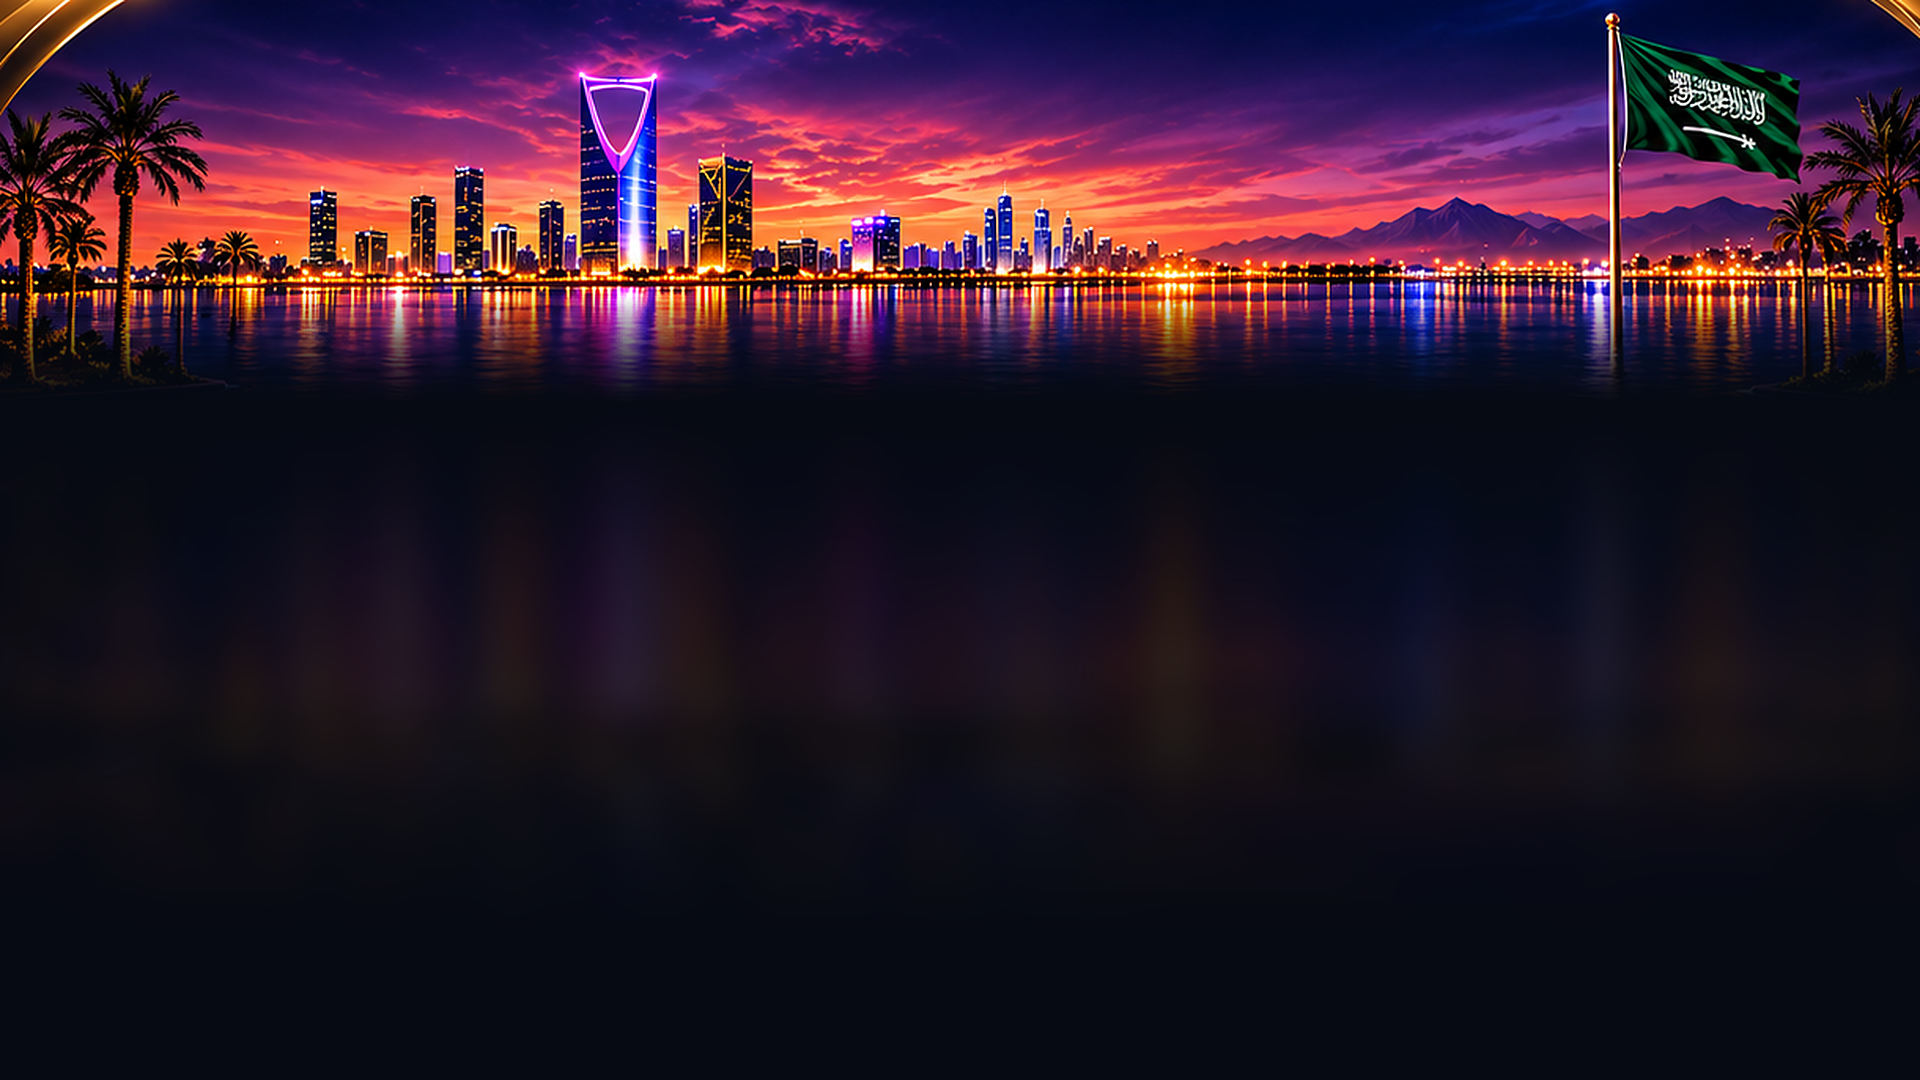
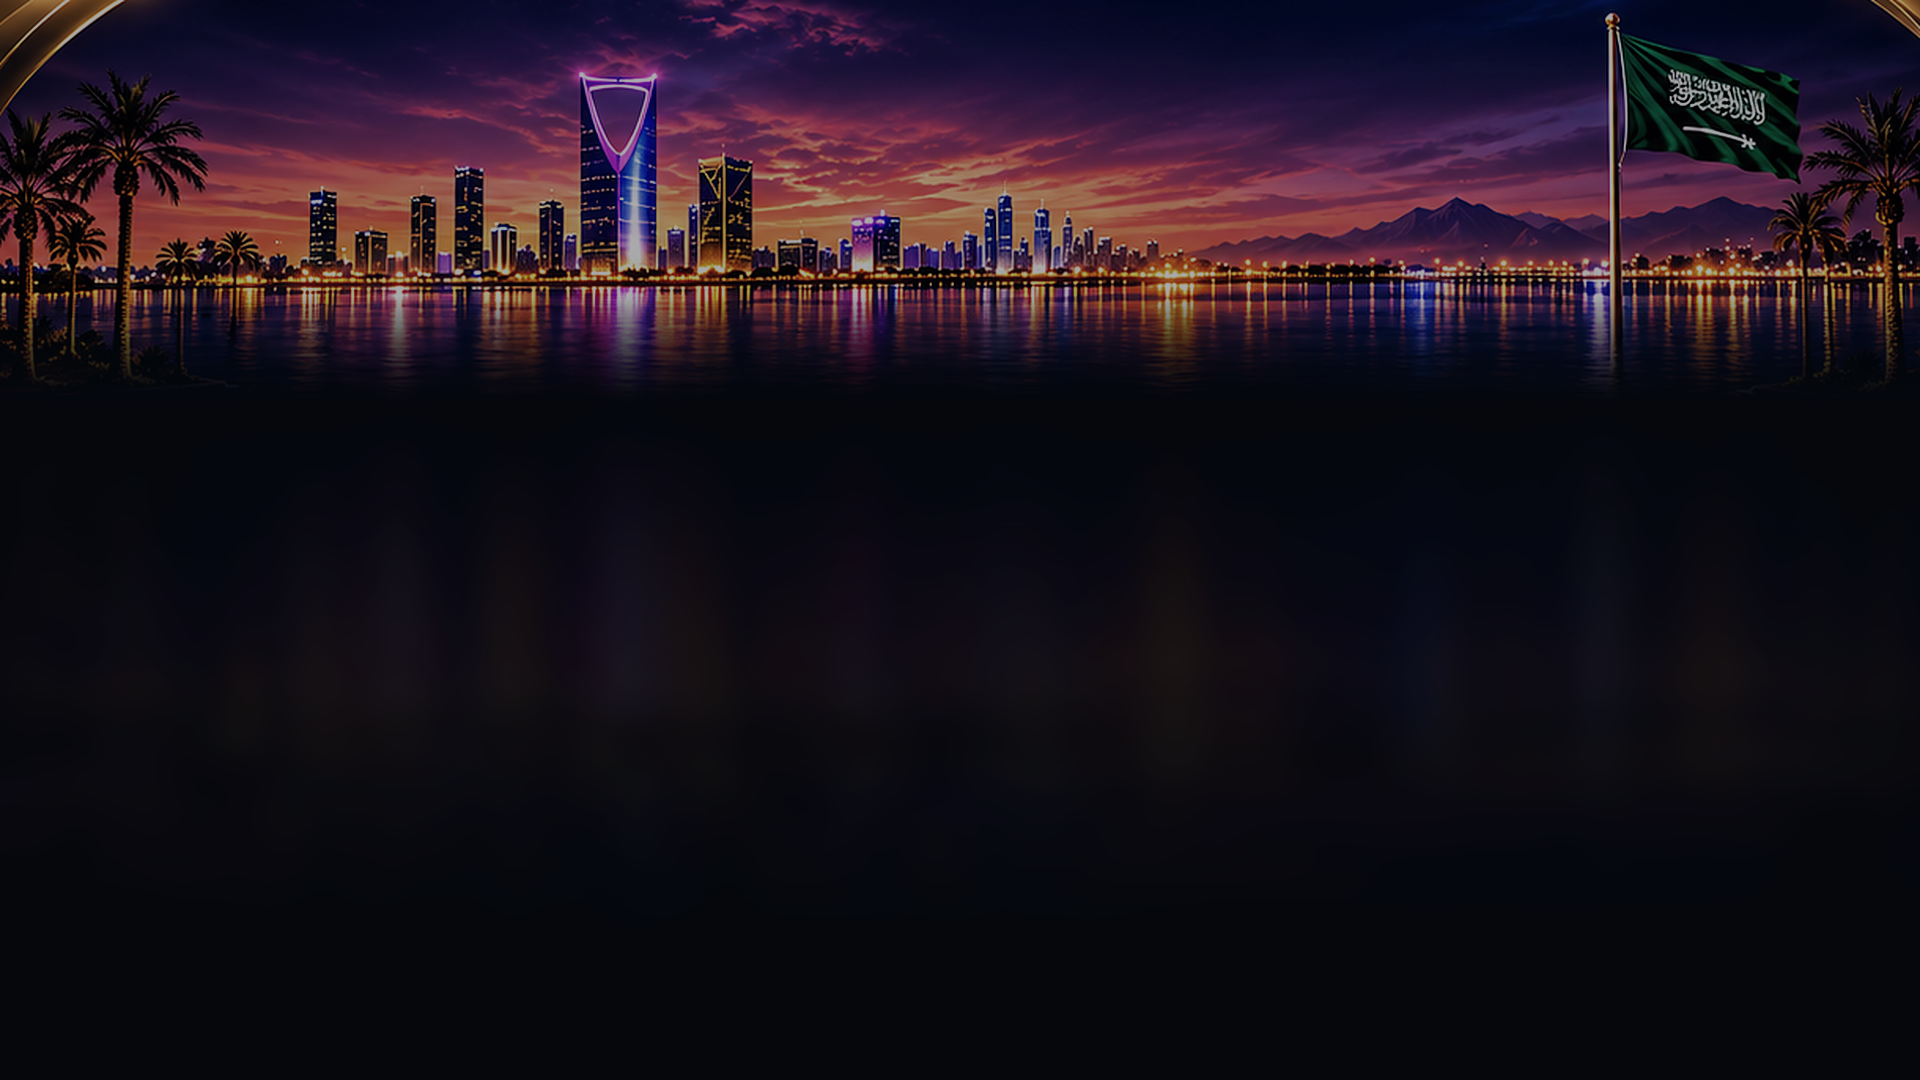
Reference design pass: calmer wallpaper, gold frame, shelf aligned to the cards, black glass slots, gold-edged panels, status capsule clear of the flag
Claude-Session: https://claude.ai/code/session_01MxrVqT7Twux35vUUHCJ6bZ

Changed region(s): [[0.0, 0.0, 1.0, 0.3667]]

diff --git a/app/src/io/ouswis/tv/standalone/HomeView.java b/app/src/io/ouswis/tv/standalone/HomeView.java
@@ -85,7 +85,7 @@ final class HomeView extends ViewGroup implements Choreographer.FrameCallback, H
     // tvOS grid (Human Interface Guidelines): content inside the safe area, 80 px from the sides and 60 from top and
     // bottom; 40 px between items; 7 columns of 217 px (the apps). The shelf glass extends 36 px past the tiles (the
     // same padding on all four sides) and the tile corners are concentric with it (glass radius = radius + padding).
-    private static final float MARGIN = 80, CONTENT_R = 1840;
+    private static final float MARGIN = 80, CONTENT_R = 1840, GOLD_STATUS_R = 318;
     // Hero, anchored at the bottom (a two-line title grows upward).
     private static final float HERO_TITLE_W = 900;
     // Shelf: tiles with corners concentric with the glass (glass radius = tile radius + padding).
@@ -1712,14 +1712,14 @@ final class HomeView extends ViewGroup implements Choreographer.FrameCallback, H
     private void layoutShelf() {
         int n = Math.min(shelf.size(), shelfVisible);
         float pad = (gold()?32:SHELF_PAD) * k, gap = (gold()?18:TILE_GAP) * k;
-        float full = (CONTENT_R - MARGIN) * k;
+        float full = (CONTENT_R - MARGIN) * k - (gold()?2 * pad:0);
         // Tiles in the TV banners' own 16:9, so an app's art is never stretched; never taller than L_TILE_H. The glass
         // keeps its bottom edge, so with more apps it only gets lower.
         float tw = Math.min((gold()?114:L_TILE_H) * 16f / 9 * k, (full - Math.max(0, n - 1) * gap) / Math.max(1, n));
         float th = tw * 9f / 16;
         float width = n * tw + Math.max(0, n - 1) * gap, left = (w - width) / 2f;
         float top = gold()?286*k:(L_PLATTER_TOP + L_TILE_H) * k - th;
-        if(gold())platterRect.set(44*k,286*k,w-44*k,470*k);
+        if(gold())platterRect.set(MARGIN*k,286*k,CONTENT_R*k,470*k);
         else platterRect.set(left - pad, top, left + width + pad, top + th + 2 * pad);
         snap(platterRect);
         shelfFirst = Math.max(0, Math.min(shelfFirst, shelf.size() - n));
@@ -1979,8 +1979,9 @@ final class HomeView extends ViewGroup implements Choreographer.FrameCallback, H
             drawLogo(c, it, cell, s, style[2]);
         } else if (it.logo != null) {
             tileFill.setShader(null);
-            tileFill.setColor(0xFF161618);
+            tileFill.setColor(gold()?0xFF0B0D11:0xFF161618);
             c.drawRoundRect(cell, r, r, tileFill);
+            if(gold())goldSkin.slot(c,cell,r,k);
             drawLogo(c, it, cell, s, 0);
         } else {
             if (it.tile != null){if(gold())fitAppImage(c,it,cell,r);else roundImage(c,it.tile,it.tileShader,cell,r);}
@@ -2014,7 +2015,8 @@ final class HomeView extends ViewGroup implements Choreographer.FrameCallback, H
     }
 
     private void fitAppImage(Canvas c,HomeApps.Item item,RectF bounds,float radius){
-        tileFill.setShader(null);tileFill.setColor(0xFF161618);c.drawRoundRect(bounds,radius,radius,tileFill);
+        tileFill.setShader(null);tileFill.setColor(0xFF0B0D11);c.drawRoundRect(bounds,radius,radius,tileFill);
+        goldSkin.slot(c,bounds,radius,k);
         float scale=Math.min(bounds.width()*0.90f/item.tile.getWidth(),bounds.height()*0.90f/item.tile.getHeight());
         float width=item.tile.getWidth()*scale,height=item.tile.getHeight()*scale;
         tmp.set(bounds.centerX()-width/2,bounds.centerY()-height/2,bounds.centerX()+width/2,bounds.centerY()+height/2);
@@ -4137,10 +4139,10 @@ final class HomeView extends ViewGroup implements Choreographer.FrameCallback, H
             snap(topRects[i]);
             x = topRects[i].right + 4 * k;
         }
-        float b = (gold()?56:L_BUTTON) * k, right = CONTENT_R * k, cy = (gold()?85:L_BUTTON_CY) * k;
+        float b = (gold()?48:L_BUTTON) * k, right = (gold()?GOLD_STATUS_R:CONTENT_R) * k, cy = (gold()?85:L_BUTTON_CY) * k;
         for (int i = lightButtons.size() - 1; i >= 0; i--) {
             topRects[3 + i].set(right - b, cy - b / 2, right, cy + b / 2);
-            right -= b + (gold()?12:L_BUTTON_GAP) * k;
+            right -= b + (gold()?6:L_BUTTON_GAP) * k;
         }
         float top = L_CARDS_TOP * k, ch = L_CARD_H * k, g = L_CARD_GAP * k, left = MARGIN * k, tall = L_TALL_W * k;
         for (HomeApps.Item it : lightButtons) {
@@ -4828,12 +4830,12 @@ final class HomeView extends ViewGroup implements Choreographer.FrameCallback, H
     }
     private void drawGoldButtons(Canvas c){
         if(lightButtons.isEmpty())return;
-        goldRow.set(topRects[3].left-(Prefs.statusIcons()?102:18)*k,44*k,CONTENT_R*k+18*k,127*k);
+        goldRow.set(topRects[3].left-(Prefs.statusIcons()?86:12)*k,52*k,GOLD_STATUS_R*k+12*k,118*k);
         goldSkin.panel(c,goldRow,40*k,k,0);
         if(islandToast)return;
         if(Prefs.statusIcons()){
-        Symbols.draw(getContext(),c,network==2?"ethernet":"wifi",topRects[3].left-73*k,85*k,26*k,network==0?0x77FFFFFF:GoldenHomeSkin.WHITE);
-        Symbols.draw(getContext(),c,"bluetooth",topRects[3].left-30*k,85*k,26*k,bluetoothConnected?GoldenHomeSkin.WHITE:0x77FFFFFF);
+        Symbols.draw(getContext(),c,network==2?"ethernet":"wifi",topRects[3].left-61*k,85*k,24*k,network==0?0x77FFFFFF:GoldenHomeSkin.WHITE);
+        Symbols.draw(getContext(),c,"bluetooth",topRects[3].left-27*k,85*k,24*k,bluetoothConnected?GoldenHomeSkin.WHITE:0x77FFFFFF);
         }
         for(int i=0;i<lightButtons.size();i++){
             HomeApps.Item it=lightButtons.get(i);RectF r=topRects[3+i];float focus=Ui.clamp(topFocus[3+i].value);
@@ -4844,7 +4846,7 @@ final class HomeView extends ViewGroup implements Choreographer.FrameCallback, H
             c.restore();
             if(focus>0.01f){
                 lTip.setColor(Ui.alpha(GoldenHomeSkin.GOLD,focus));
-                float center=Math.min(r.centerX(),CONTENT_R*k-lTip.measureText(it.label)/2);
+                float half=lTip.measureText(it.label)/2,center=Math.max(half+24*k,Math.min(r.centerX(),CONTENT_R*k-half));
                 c.drawText(it.label,center,170*k,lTip);
             }
         }

diff --git a/app/src/io/ouswis/tv/standalone/GoldenHomeSkin.java b/app/src/io/ouswis/tv/standalone/GoldenHomeSkin.java
@@ -69,10 +69,26 @@ final class GoldenHomeSkin {
     void background(Canvas c,RectF screen){
         c.drawColor(0xFF060A13);
         if(wallpaper!=null)c.drawBitmap(wallpaper,null,screen,image);
+        frame(c,screen);
+    }
+    /** The cinematic gold frame: a thin glowing line just inside the screen's edge, rounded at the corners. */
+    private void frame(Canvas c,RectF screen){
+        float k=screen.width()/1920f;
+        box.set(screen);box.inset(9*k,9*k);
+        Paint.Style style=line.getStyle();float width=line.getStrokeWidth();int color=line.getColor();
+        line.setStyle(Paint.Style.STROKE);
+        for(int i=2;i>=1;i--){line.setStrokeWidth((1.6f+i*3f)*k);line.setColor(Ui.alpha(accent,0.045f));c.drawRoundRect(box,70*k,70*k,line);}
+        line.setStrokeWidth(1.6f*k);line.setColor(Ui.alpha(accent,0.55f));c.drawRoundRect(box,70*k,70*k,line);
+        line.setStyle(style);line.setStrokeWidth(width);line.setColor(color);
+    }
+    /** A black glass slot behind an app's art, with a soft gold edge. */
+    void slot(Canvas c,RectF r,float radius,float k){
+        line.setColor(Ui.alpha(accent,0.34f));line.setStrokeWidth(1.2f*k);
+        c.drawRoundRect(r,radius,radius,line);
     }
     void panel(Canvas c,RectF r,float radius,float k,float focus){
         c.drawRoundRect(r,radius,radius,glass);
-        line.setColor(Ui.alpha(accent,0.42f));line.setStrokeWidth(k);
+        line.setColor(Ui.alpha(accent,0.62f));line.setStrokeWidth(1.4f*k);
         c.drawRoundRect(r,radius,radius,line);
         if(focus>0.01f)focus(c,r,radius,k,focus);
     }
@@ -137,9 +153,9 @@ final class GoldenHomeSkin {
                 hijriLayout=dateLayout(dates.hijri,hijriPaint,410*k,true);
             }
         }
-        int save=c.save();c.translate(95*k,62*k);gregorianLayout.draw(c);c.restoreToCount(save);
-        save=c.save();c.translate(95*k,112*k);hijriLayout.draw(c);c.restoreToCount(save);
-        if(calendarIcon!=null){art.set(522*k,76*k,522*k+48*k*calendarIcon.getWidth()/calendarIcon.getHeight(),124*k);c.drawBitmap(calendarIcon,null,art,image);}
+        int save=c.save();c.translate(145*k,62*k);gregorianLayout.draw(c);c.restoreToCount(save);
+        save=c.save();c.translate(145*k,112*k);hijriLayout.draw(c);c.restoreToCount(save);
+        if(calendarIcon!=null){art.set(572*k,76*k,572*k+48*k*calendarIcon.getWidth()/calendarIcon.getHeight(),124*k);c.drawBitmap(calendarIcon,null,art,image);}
         // Large, light numerals directly on the wallpaper: no opaque clock capsule.
         fitText(c,time,955*k,121*k,390*k,clock);
     }
